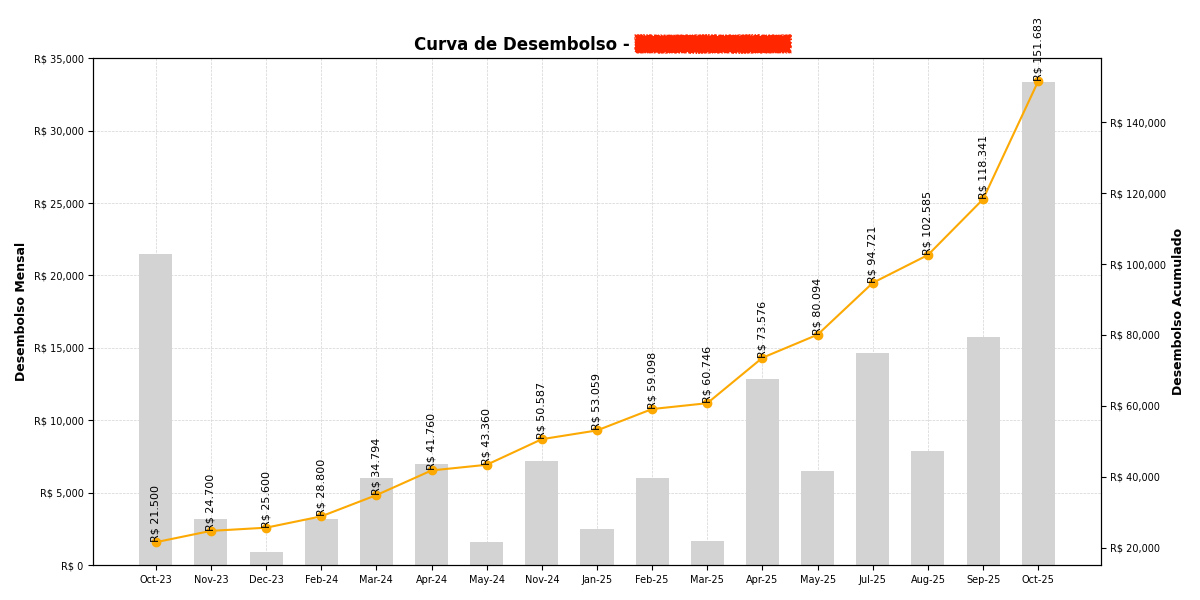
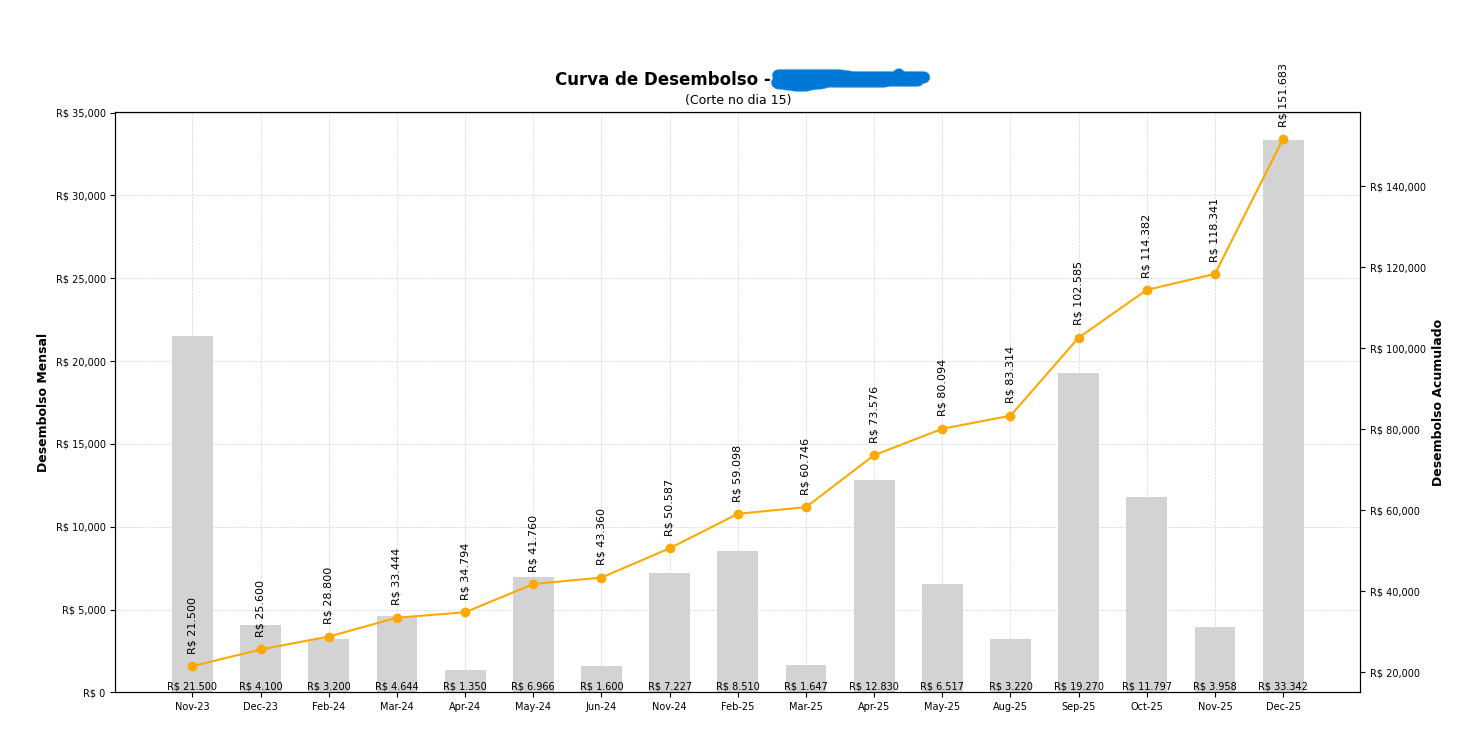
Pequenas atualizações em desembolso.py e arquivo de exemplo

diff --git a/Curva de Desembolso/Desembolso.py b/Curva de Desembolso/Desembolso.py
@@ -118,8 +118,10 @@ ax2 = ax1.twinx()
 ax2.plot(range(len(df_mensal)), df_mensal["Acumulado"], marker='o', color='#fca903')
 
 # Rótulos acumulados
+max_valor = df_mensal["Acumulado"].max()
+offset = max_valor * 0.02  # 5% do valor máximo para espaçamento proporcional
 for i, y in enumerate(df_mensal["Acumulado"]):
-    ax2.text(i, y, f'R$ {int(y):,}'.replace(",", "."), fontsize=8, rotation=90, va='bottom', ha='center')
+    ax2.text(i, y + offset, f'R$ {int(y):,}'.replace(",", "."), fontsize=8, rotation=90, va='bottom', ha='center')
 
 # Rótulos dos eixos
 ax1.set_ylabel("Desembolso Mensal", fontsize=9, fontweight="bold")
